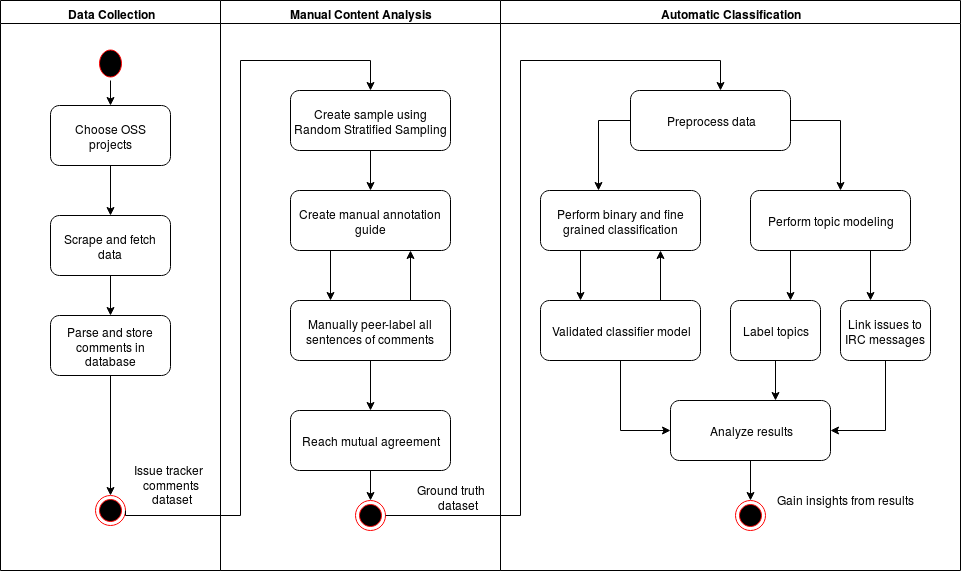
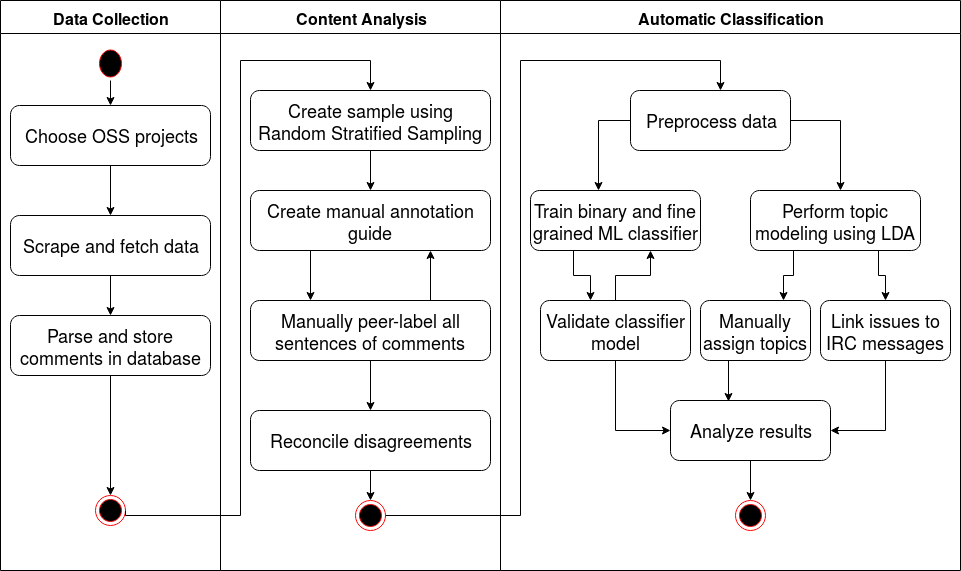
Report: Updated Chapter 1

diff --git a/thesis-template-master/thesis.tex b/thesis-template-master/thesis.tex
@@ -84,7 +84,7 @@ To write.
 
 %abstract english
 
-Rationale knowledge is particularly important during software maintenance and evolution because it is valuable to understand the rationale behind the previous decisions. Rationale knowledge, in the context of software engineering, corresponds to the reasoning and logic behind the decisions taken during all phases of software development. Such decisive conversations are spread out across various mediums. Rationale may be discussed face-to-face or over other modes of communication such as chats, emails, or issue trackers to mention a few. It is thus important to extract and mine these messages that were exchanged over different modes of communication to recover rationale. Open source projects come with licenses that provides the rights to study, develop and also contribute to the same. Additionally, issue trackers for open source projects are available publicly. Therefore, this research focuses on mining rationale from the issue trackers of open source projects: Apache Lucene, Mozilla Thunderbird and Ubuntu. This thesis also aims to link common topics of discussion taking place over IRC and issue tracker of the aforementioned projects. These rationale captured can help developers evaluate decisions, improve understandability, and document the pertinent information better.
+Rationale knowledge is particularly important during software maintenance and evolution because it is valuable to understand the rationale behind the previous decisions. Rationale knowledge, in the context of software engineering, corresponds to the reasoning and logic behind the decisions taken during all phases of software development. Such decisive conversations are spread out across various mediums. Rationale may be discussed face-to-face or over other modes of communication such as chats, emails, or issue trackers to mention a few. It is thus important to extract and mine these messages that were exchanged over different modes of communication to recover rationale. Open source projects come with licenses that provides the rights to study, develop and also contribute to the same. Additionally, issue trackers for open source projects are available publicly. Therefore, this research focuses on mining rationale from the issue trackers of open source projects: Apache Lucene, Mozilla Thunderbird and Ubuntu. This thesis also aims to link common topics of discussion taking place over IRC and issue tracker of the aforementioned projects. The rationale captured can help developers evaluate decisions, improve understandability, and document the pertinent information better.
 
 \end{abstract}
 
@@ -116,14 +116,12 @@ Rationales Wissen ist besonders wichtig während der Softwarewartung und evoluti
 \acro{LR}{Logistic Regression}
 \acro{SVM}{Support Vector Machines}
 \acro{HTML}{Hypertext Markup Language}
-\acro{TXT}{Text}
 \acro{SQL}{Structured Query Language}
 \acro{NLP}{Natural Language Processing}
 \acro{POS}{Parts-of-Speech}
-\acro{SOLR}{Need to look up}
 \acro{SGD}{Stochastic Gradient Descent}
-\acro{GATE}{General Architecture for Text Engineering}
 \acro{WEKA}{Waikato Environment for Knowledge Analysis}
+\acro{OSS}{Open Source Software}
 
 \end{acronym}
 
@@ -139,39 +137,43 @@ Rationales Wissen ist besonders wichtig während der Softwarewartung und evoluti
 %------- chapter 1 -------
 
 \chapter{Introduction}
-Modern software development has resorted to agile methodologies in order to speed up delivery to clients and customers. Being iterative in nature, software development has its task cut out for decision making during different phases such as requirement analysis, system design, implementation, testing and maintenance, for improvement. Decision making is done through discussions between different members of the team. The problems or issues that are in the forefront usually cannot be solved algorithmically. They belong to a class of special problems known as the wicked problems \cite{Rittel1973}. In addition to discussing the issues, proposals are suggested to solve them and arguments are given in favor of or against the given proposal before making the final decision. In other words, the reasoning behind the proposals, arguments and decisions are also known as rationale. 
-\bigbreak
-Due to fast paced development nature of the software industry, importance has inclined more toward development than logging the reasoning behind the decisions taken. Capturing, documentaining and maintaining rationale can significantly avert major risks in future and thus aid better evolution and maintenance \cite{Bruegge2009} \cite{Dutoit2006}. In addition, it helps understand the logic and reasoning behind certain decisions and therefore save time by adopting the necessary while ignoring the rejected proposals. Rationale may be discussed face-to-face or over other software development artifacts such as chat messages, IRC messages and issue trackers \cite{Lata2016} \cite{Nonnenmacher2017} \cite{Panichella2014}.  
-\bigbreak
-In this thesis, the focus lies on extracting rationale out of developers' comments from issue tracking systems of three Open Source Software (OSS) projects: Apache Lucene, Mozilla Thunderbird and Ubuntu. An exploratory study is conducted using the datasets of the aforementioned OSS projects using which analysis is done on the rationale frequency observed and investigate capturing rationale automatically using machine learning techniques. 
+Modern software development has resorted to agile methodologies in order to speed up delivery to clients and customers besides dealing with changing requirements and requests. Being iterative in nature, software development has its task cut out for decision making during different phases such as requirement analysis, system design, implementation, testing and maintenance, for improvement. Decision making is done through discussions between different members of the team. The problems or issues that are in the forefront usually cannot be solved algorithmically. They belong to a class of special problems known as the wicked problems \cite{Rittel1973}. In addition to discussing the issues, proposals are suggested to solve them and arguments are given in favor of or against the given proposal before making the final decision. The reasoning behind the proposals, arguments and decisions is known as \textit{rationale}. 
+\newline \newline
+Due to fast paced development nature of the software industry, importance has inclined more towards development than logging the reasoning behind the decisions taken. Capturing, documentaining and maintaining rationale can significantly avert major risks in future and thus aid better evolution and maintenance \cite{Bruegge2009}, \cite{Dutoit2006}. In addition, it helps understand the logic and reasoning behind certain decisions and therefore save time by adopting the necessary while ignoring the rejected proposals. Rationale may be discussed face-to-face or over other software development artifacts such as chat messages, Inter Relay Chat (IRC) messages and issue trackers \cite{Lata2016}, \cite{Nonnenmacher2017},  \cite{Panichella2014}.  
+\newline \newline
+In this thesis, the focus lies on extracting rationale out of developers' comments from issue tracking systems (ITS) of three Open Source Software (OSS) projects: Apache Lucene, Mozilla Thunderbird and Ubuntu. An exploratory study is conducted using the datasets of the aforementioned OSS projects to analyze the rationale frequency and investigate capturing rationale automatically using machine learning techniques. Additionally, this thesis also aims at linking issue trackers and IRC messages based on similar topics of discussion. 
 
 \section{Problem Statement}
-Extracting rationale from software development artifacts is imperative in order to comprehend the reasoning behind why certain proposals were made, why they were advocated or criticised, and lastly, how the members of the team took a decision based on a gamut of criteria in consideration. With requests for changes coming in at a very fast pace for developers, capturing rationale can be a vital cog in the wheel of software development. Teams and organizations undergo changes as well and hence, the rationale documented can be of great use to someone who is beginning their stint with the team. This helps them to peruse and cogitate on why certain things the way they are and save crucial time to know which paths to explore and which to avoid. It can thus be imagined that not capturing the rationale may lead to reinventing the wheel, which is completely uncalled for and waste of time, had the rationale been documented \cite{Bruegge2009}. In the past, however, developers have not paid much heed to capture and document rationale. The reason behind this can be attributed to limited time and additional efforts \cite{Dutoit2006}. OSS projects are usually led in a different way compared to its commercial counterparts \cite{mockus2002two}. While companies of great stature do lend their support to OSS projects, volunteers from, and sometimes across, different parts of the world are at helm in driving the development. These volunteers themselves choose what they want to work on compared to industrial settings where usually one is assigned a task by their superiors. In addition, they lack system level designs and hence, a concrete deliverable. These could be thought of some of the prime reasons as to why not much attention has been given to documenting rationale. However, due to the level of passion from the developers in taking up tasks of their interest, OSS projects have managed to maintain very high quality. A great example of this would be Linux when compared to its commercial counterparts such as Windows or Macintosh \cite{mockus2002two}. Although messages from software development artifacts are logged and rationale can be found in them, this can be quite a tedious task due to many reasons. Firstly, one has to go through too many messages, many of which can be completely irrelevant or insignificant. Secondly, finding proper correlation and link between different comments with many irrelevant ones occurring in between can make one lose track of things. This task of extracting rationale and documenting them in a clear and concise manner can be a cumbersome task even for human beings, especially due to the fact that some artifacts may have many messages on a given day, let alone over a period of many years. This thesis thus tries to address the aforementioned problem of capturing and documenting rationale from issue tracking systems using machine learning algorithms for text classification.
+Extracting rationale from software development artifacts is imperative in order to comprehend the reasoning behind why certain decisions were made, and how the members of the team took a decision based on a gamut of criteria in consideration. With requests for changes coming in at a very fast pace for developers, capturing rationale can be a vital cog in the wheel of software development. Teams and organizations undergo changes as well and hence, the rationale documented can be of great use to someone who is beginning their stint with the team. This helps them to peruse and cogitate on why certain things the way they are and save crucial time to know which paths to explore and which to avoid. It can thus be imagined that not capturing the rationale may lead to reinventing the wheel, which is completely uncalled for and waste of time, had the rationale been documented \cite{Bruegge2009}. In the past, however, developers have not paid much heed to capture and document rationale. The reason behind this can be attributed to limited time and additional efforts \cite{Dutoit2006}. 
+\newline \newline
+OSS projects are usually led in a different way compared to its commercial counterparts \cite{mockus2002two}. While companies of great stature do lend their support to OSS projects, volunteers from, and sometimes across, different parts of the world are at helm in driving the development. These volunteers themselves choose what they want to work on compared to industrial settings where usually one is assigned a task by their superiors. In addition, they lack system level designs and hence, a concrete deliverable. These could be thought of some of the prime reasons as to why not much attention has been given to documenting rationale. However, due to the level of passion from the developers in taking up tasks of their interest, OSS projects have managed to maintain very high quality. A great example of this would be Linux when compared to its commercial counterparts such as Windows or Macintosh \cite{mockus2002two}. 
+\newline \newline
+Although messages from software development artifacts are logged and rationale can be found in them, this can be quite a tedious task due to many reasons. Firstly, one has to go through too many messages, many of which can be completely irrelevant or insignificant. Secondly, finding proper correlation and link between different comments with many irrelevant ones occurring in between can make one lose track of things. This task of extracting rationale and documenting them in a clear and concise manner can be cumbersome even for human beings, especially due to the fact that some artifacts may have many messages on a given day, let alone over a period of many years. This thesis thus tries to address the aforementioned problem of capturing and documenting rationale from ITS using machine learning algorithms for text classification besides linking issues to their pertinent IRC messages based on similar topics discussed.
 
 \section{Objective}
-Of the many software development artifacts, issue tracking systems are one of the potential sources for capturing rationale. Unlike other channels such as chat messages or emails, issue tracking systems specifically concentrate exclusively on development of the pertinent project. In the past, there has been research on extracting emotions of developers from issue tracking systems \cite{Marshall2016} \cite{Robillard2017}. Additionally, studies have also been conducted on classification of reports from issue tracking systems \cite{Fan2017}. This thesis explores the possibilities of finding rationale and classify them automatically from issue tracking systems of three OSS projects, namely, Apache Lucene, Mozilla Thunderbird and Ubuntu. In addition, this thesis also tries to extend the work of Nonnenmacher \cite{Nonnenmacher2017} by trying to find links between messages from IRC channel and issue tracking systems of the projects mentioned earlier. The Research Hypotheses (RH) are thus formulated as follows.
+Of the many software development artifacts, issue tracking systems are one of the potential sources for capturing rationale. Unlike other channels such as chat messages or emails, ITS exclusively concentrate on development of the pertinent project. In the past, there has been research on extracting emotions of developers from issue tracking systems \cite{Marshall2016}, \cite{Robillard2017}. Additionally, studies have also been conducted on classification of reports from ITS \cite{Fan2017}. This thesis explores the possibilities of finding rationale and classify it automatically from issue tracking systems of three OSS projects, namely, Apache Lucene, Mozilla Thunderbird and Ubuntu. In addition, this thesis tries to extend the work of Nonnenmacher \cite{Nonnenmacher2017} by trying to find links between messages from IRC channel and issue tracking systems of the projects mentioned earlier. The Research Hypotheses (RH) are thus formulated as follows.
 
 \begin{itemize}
-\item[\textbf{RH1}] \textit{Messages from ITS of OSS projects contain rationale.} The frequency with which rationale appears in messages from ITS is an important factor to consider them as a useful source of rationale.   
-\item[\textbf{RH2}] \textit{Rationale can be captured automatically from ITS.} Machine learning algorithms are capable of automatically extract if a given message contains rationale or not, which in other words is binary classification. Additionally, these algorithms can also perform fine-grained classification on those messages that are considered to contain rationale elements such as issues, alternatives, pro-arguments, con-arguments and decisions; in other words, multi-label classification. 
-\item[\textbf{RH3}] \textit{Mutual issues exist in IRC and ITS.} There exists certain issues that are possibly discussed in both, IRC channel as well as ITS. These issues could therefore be linked together to know more about the rationale behind them.    
+\item[\textbf{RH1}] \textit{Comments from ITS of OSS projects contain rationale.} The frequency with which rationale appears in messages from ITS is an important factor to consider them as a useful source of rationale.   
+\item[\textbf{RH2}] \textit{Rationale can be captured automatically from ITS.} Machine learning algorithms are capable of automatically detect if a given comment contains rationale or not, which in other words is binary classification. Additionally, these algorithms can also perform fine-grained classification on these messages that are considered to contain rationale elements such as issues, alternatives, pro-arguments, con-arguments and decisions; in other words, multi-label classification. 
+\item[\textbf{RH3}] \textit{Common topics are discussed on IRC as well as ITS.} There exists certain issues that are possibly discussed in both, IRC channel as well as ITS. These issues could therefore be linked together to link related rationale.    
 \end{itemize}
 
 \section{Methodology}
-This thesis is divided into three main phases: data collection, content analysis and automatic classification, all of which are sequential and the output of one phase serves as input of the next phase. In the first phase, to collect data, all the suitable OSS projects whose data is publicly available are considered. Later, datasets which are already provided by the website as a dump are downloaded. Those projects whose websites do not provide any dataset readily have been scraped. In both the instances of readily available dump or scraped data, the necessary contents were parsed and finally stored in a common structured format in the database. Random Stratified Sampling was applied at the data stored and all the messages were also decomposed into individual sentences. The final dataset thus consisted of 8,310 sentences from 300 issues of all three projects; these were also the input for the content analysis phase. 
-\bigbreak
-In the content analysis phase, two annotators, the author and the advisor, considered the dataset obtained in the previous phase mentioned in paragraph earlier. They had to label all the messages whether they contained rationale or not, and if they did contain, the annotators had to further specify the element present in the rationale such as issue, alternative, pro-argument, con-argument and decision. In order to perform this step, Neuendorf's \cite{Neuendorf2017a} content analysis technique was followed. First, a labeling guide, mentioned in detail in Appendix A, was prepared. This labeling guide provided understanding to both the annotators to reducde th disagreements significantly since they would now know which one to label as what. Second, disagreements, if any, were sorted out between the annotators. Finally, the results of this stage served as ground truth training set for the automatic classification phase.  
-\bigbreak
-In the final phase of automatic classification, the ground truth obtained from the previous phase was used for training the various machine learning algorithms. Before running the classifier models, numerous data preprocessing methods such as bag-of-words, n-gram tokenization and parts-of-speech tagging were applied. The dataset was divided into training set and testing set by the virtue of performing k-fold cross validation to test the accuracy of the model and retrieve the best performing ones. The classifier models were capable of performing both kinds of classification, binary as well as fine-grained classification. The results were later studied and insights were gained to validate the research hypotheses formulated earlier.
+This thesis is divided into three main phases: data collection, content analysis and automatic classification, all of which are sequential and the output of one phase serves as input of the next phase. In the first phase, to collect data, all the suitable OSS projects whose data is publicly available were considered. Three projects were then selected, which are Apache Lucene, Mozilla Thunderbird and Ubuntu. Later, datasets which were already provided by the website as a dump were downloaded. Those projects whose websites did not provide any dataset readily had been scraped. In both the instances of readily available dump or scraped data, the necessary contents were parsed and finally stored in a common structured format in the database. Random Stratified Sampling (RSS), a procedure to divide a given entity into some strata, was applied at the data stored and all the comments were also decomposed into individual sentences. The final dataset consisted of 8,310 sentences from 300 issues of all three projects; these were the input for the content analysis phase. 
+\newline \newline
+In the content analysis phase, two annotators, the author and the advisor of this thesis, considered the dataset obtained in the previous phase. They had to label all the messages whether they contained rationale or not, and if they did contain, the annotators had to further specify the elements present in the rationale such as issue, alternative, pro-argument, con-argument and decision. In order to perform this step, Neuendorf's \cite{Neuendorf2017a} content analysis technique was followed. First, a labeling guide, mentioned in detail in Appendix A, was prepared. This labeling guide provided understanding to both annotators to reduce the disagreements since they would now know which one to label as what. Second, disagreements, if any, were sorted out between the annotators through discussion. Finally, the results of this stage served as ground truth training set for the automatic classification phase.  
+\newline \newline
+In the final phase of automatic classification, the ground truth obtained from the previous phase was used for training the various machine learning algorithms. Before running the classifier models, data preprocessing methods such as bag-of-words, n-gram tokenization and parts-of-speech tagging were applied. The dataset was divided into training set and testing set by the virtue of performing k-fold cross validation to test the accuracy of the model and retrieve the best performing ones. The classifier models were capable of performing both kinds of classification, binary as well as fine-grained classification. The results were later studied and insights were gained to validate the research hypotheses formulated earlier.
 \begin{figure}[h] %b!]
     \centering
-    \includegraphics[width=15cm]{methodology}
+    \includegraphics[width=13cm]{methodology}
     \caption{Thesis methodology explained using UML activity diagram}
     \label{fig:thesisMethodology}
 \end{figure}
 
 \section{Outline}
-
+The thesis is structured as follows: Chapter 2 presents information about rationale, its elements and the relationship between them. Additionally, it discusses all the related works done by others in similar areas to that of this thesis in the past. Chapter 2 also dives in details of the necessary steps, algorithms and tools to achieve the goals of this thesis. Chapter 3 gives an overview of the datasets to be used for this thesis and how they were obtained. The content analysis on the datasets obtained from Chapter 3 are discussed in Chapter 4. It also presents insights gained from the manual labeling task. Chapter 5 presents the results of different experiments carried out; they are: binary classification, fine grained classification, topic modeling and linking issues to IRC messages. In Chapter 6, the thesis is summarized, hypotheses are validated, limitations are discussed and research directions for future are suggested. 
 
 %------- chapter 2 -------
 \chapter{Foundation}
